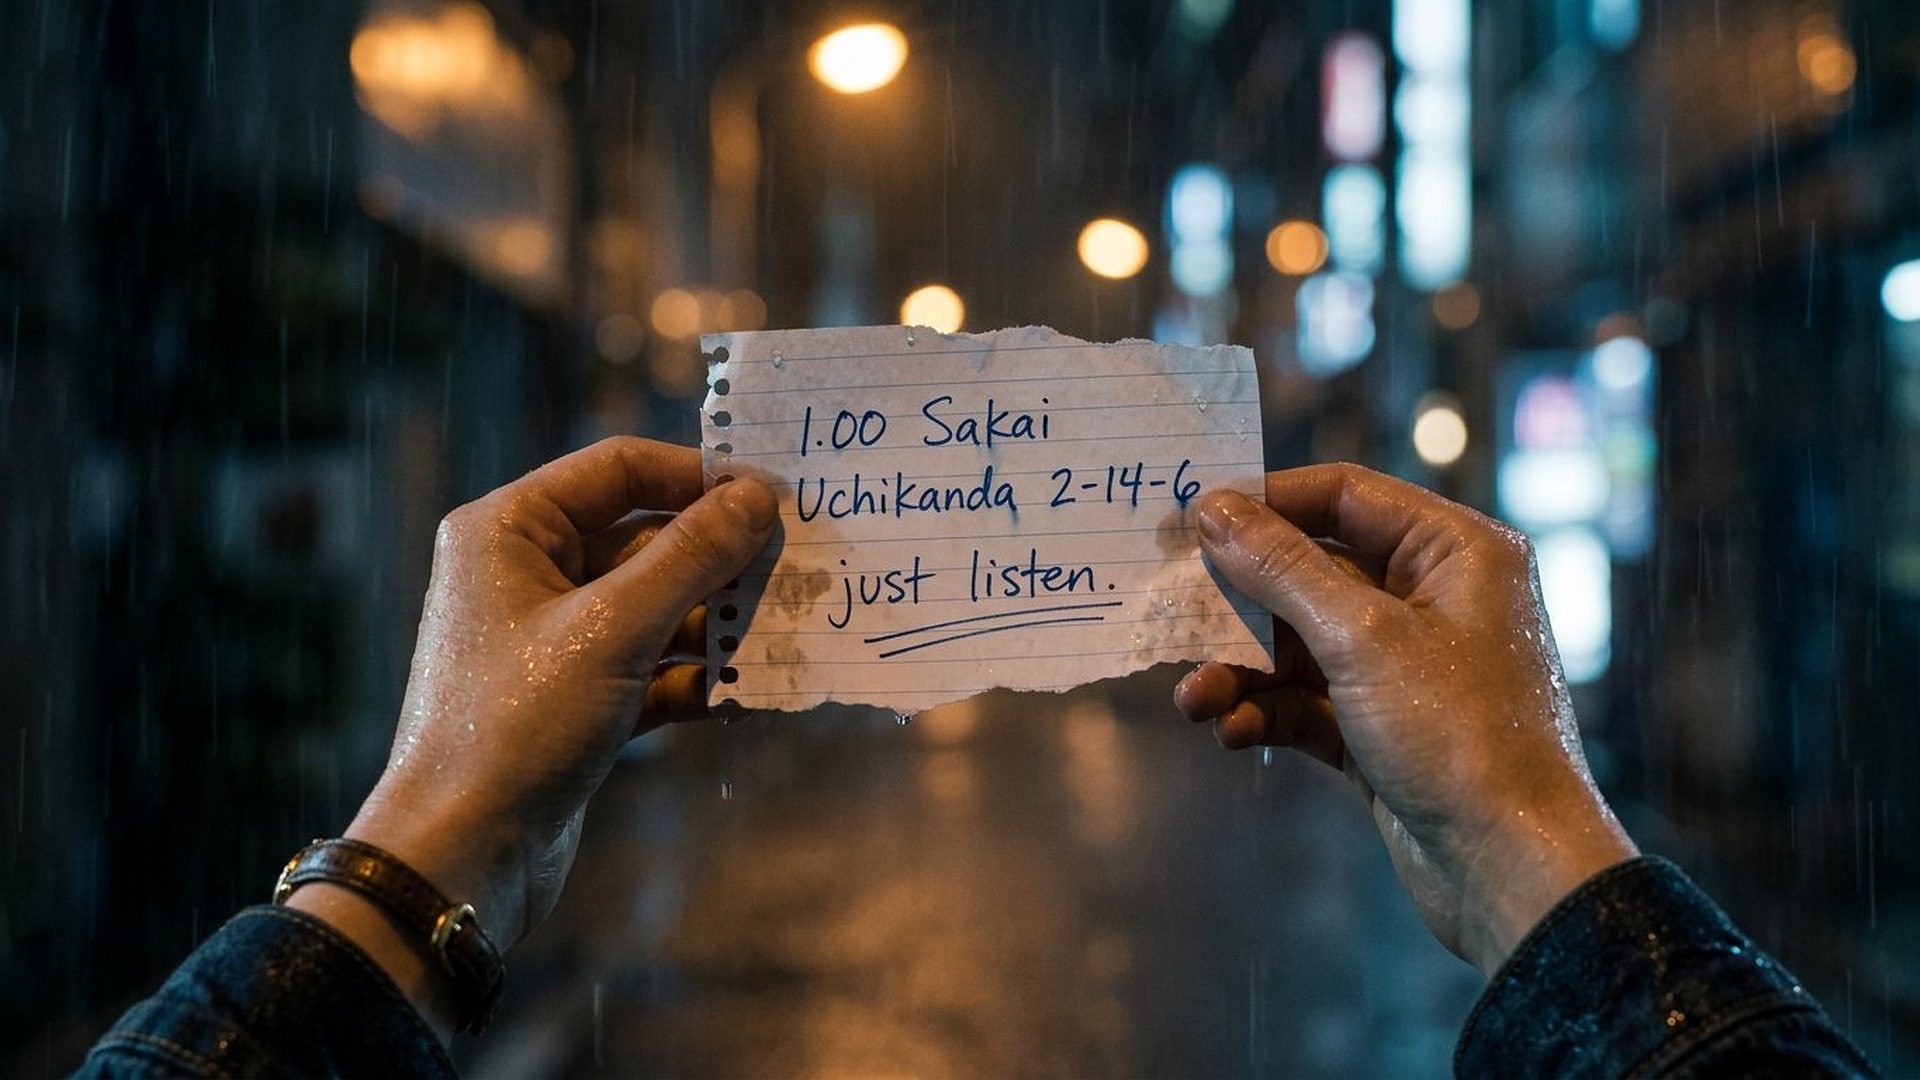
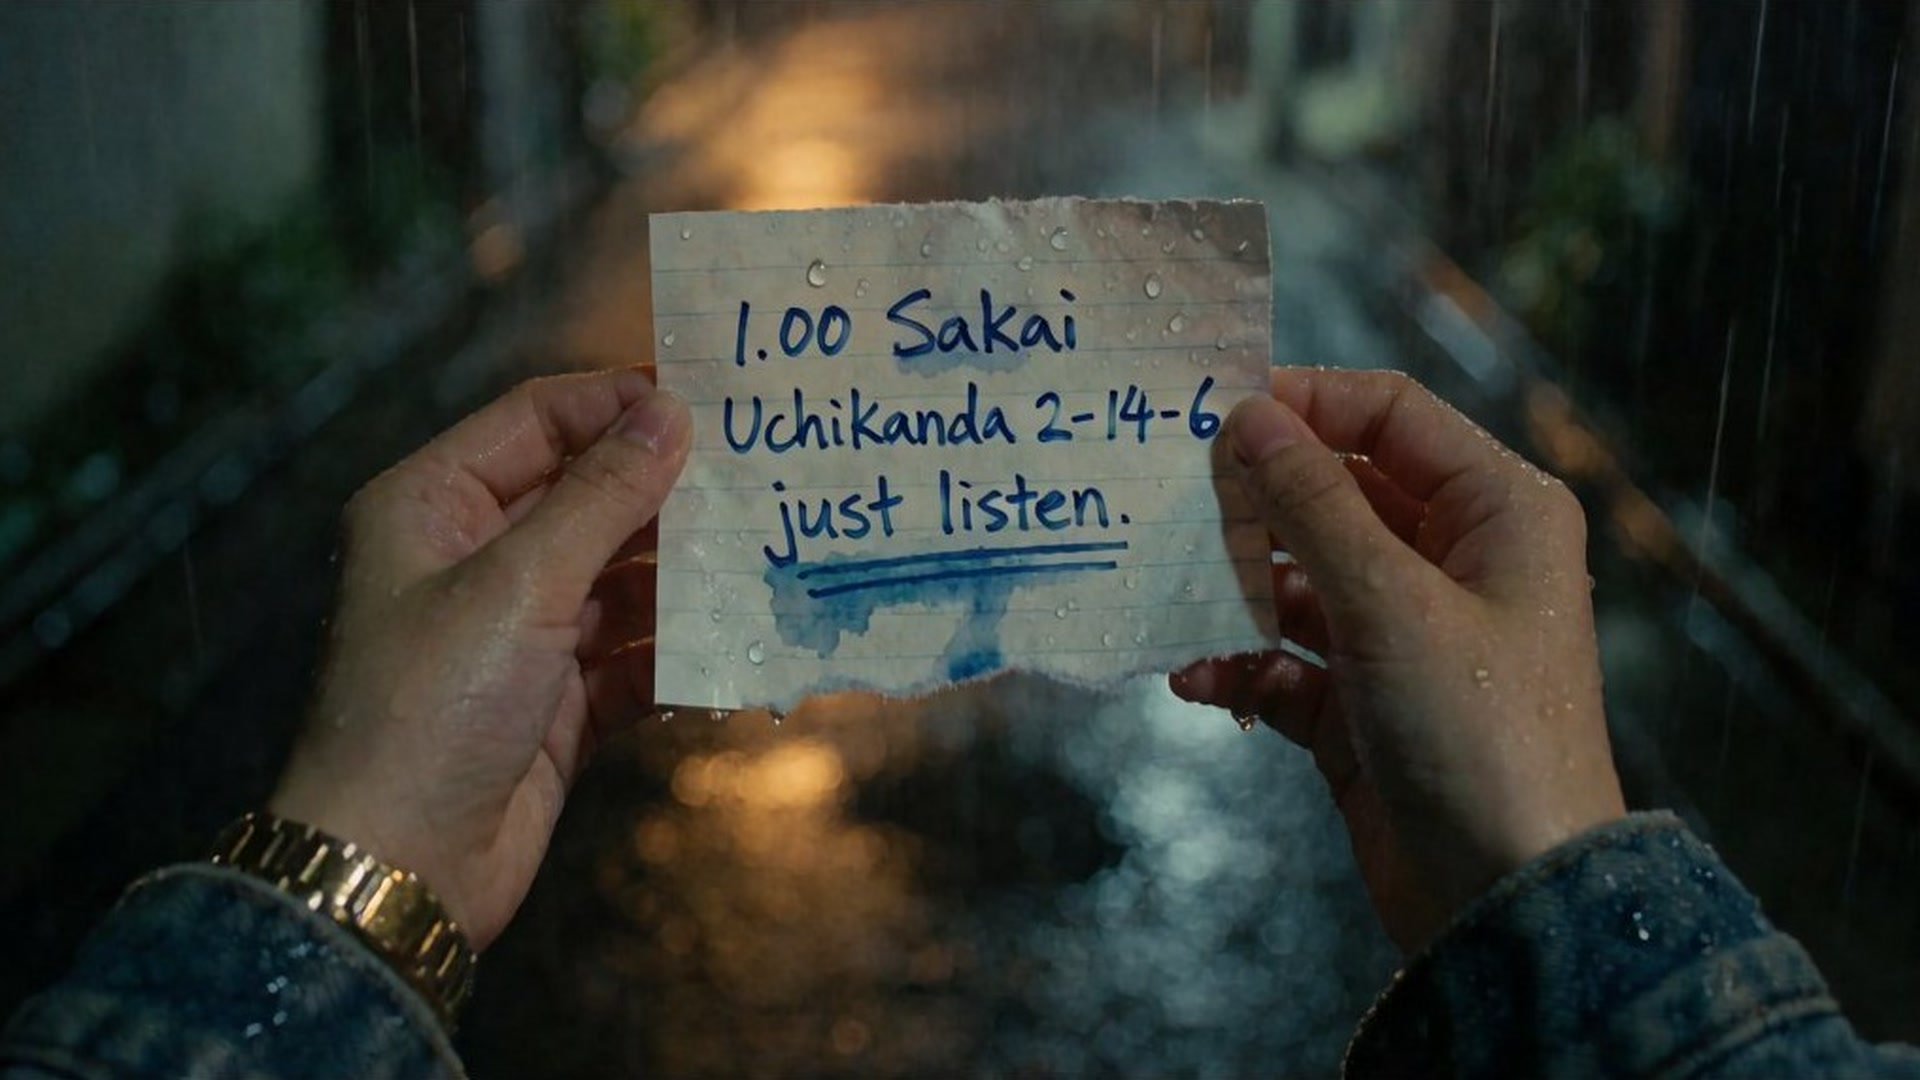
Scene 1: the director's retake of 328, the scrap, with "just listen." underlined twice
Previous take archived as archive/s1/328-the-scrap--v1.jpg.

Claude-Session: https://claude.ai/code/session_012ydbYCSE5scPimQfDa9uE1

diff --git a/FILM.md b/FILM.md
@@ -33,7 +33,8 @@ Mara (denim jacket, the red clip, the gold watch, the brown bag) and the same Sa
   away from the phone. Brief: the `s1_new/style-sheets/mara-voss.jpg` sheet as reference (it is on the ElevenLabs flow
   `X7nqmG290GG6ek1bFpZb`, node `YlSPT8etwsDBPO0spyC5`); medium close-up, she has stopped and looks *down* at the phone in her
   right hand, the screen reading VERA and lighting her face from below; barber's pole soft at right, rain, practical light.
-* **328-the-scrap**: "just listen." is underlined once, the screenplay says twice (small).
+* ~~**328-the-scrap**~~ done 17 October: the director's retake (`s1_retakes/`, "just listen." underlined twice) is
+  installed at 1920×1080; the previous take is `archive/s1/328-the-scrap--v1.jpg`.
 * **14**: a new lip-sync clip from the new still.
 
 
